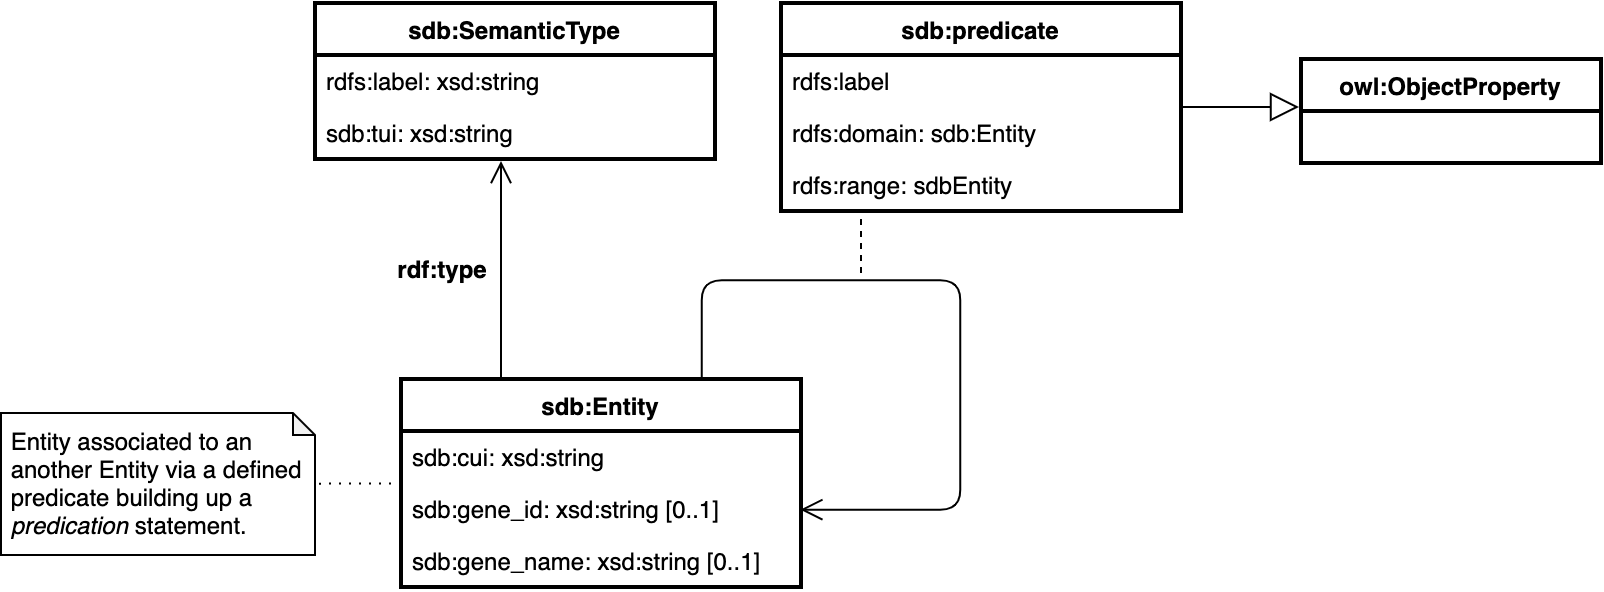
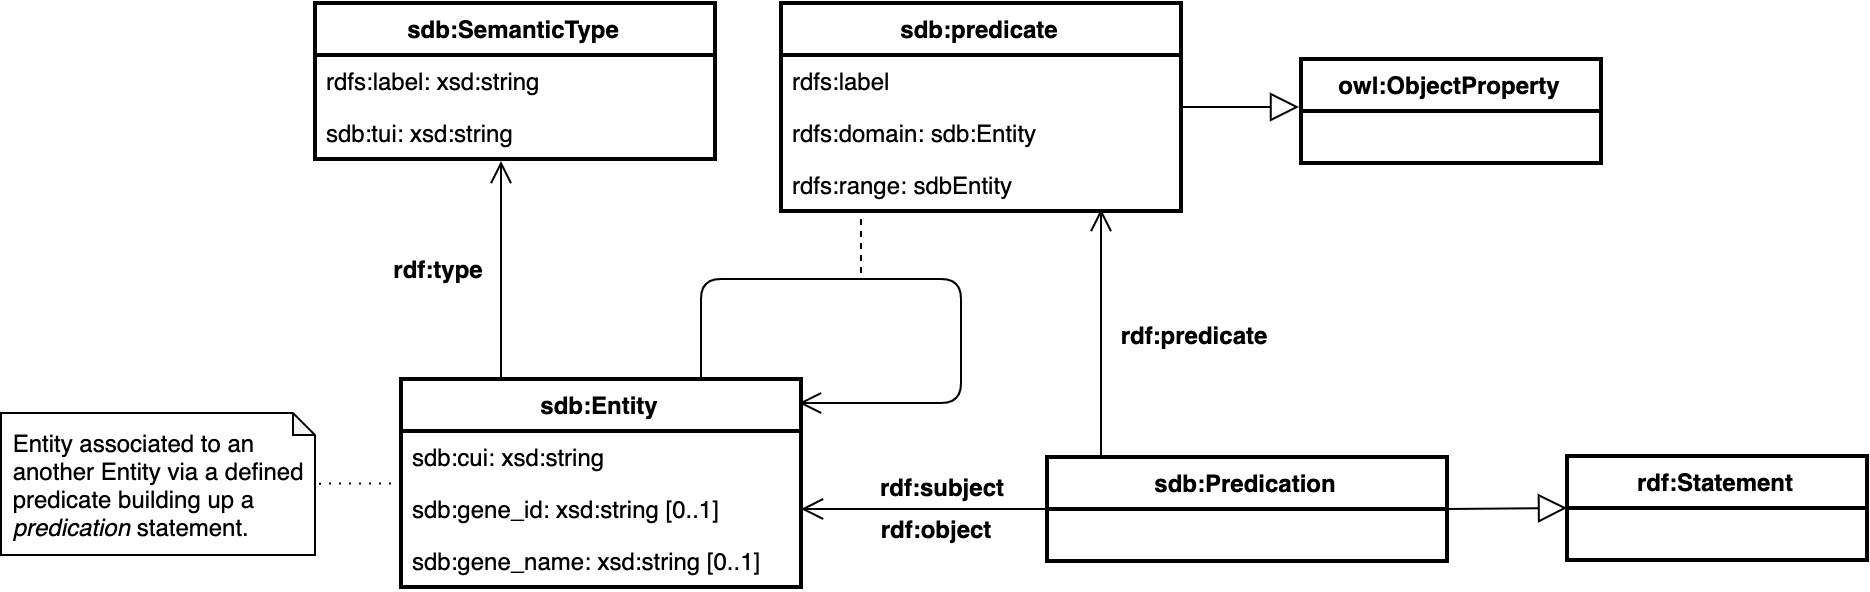
Constraints added

diff --git a/README.md b/README.md
@@ -17,7 +17,7 @@ Table | File size | Rows
 PREDICATION | 13Gb | 97.972.561
 ENTITY | 123Gb | 1.369.837.426
 
-The target graph model [semmeddb.ttl](model/semmeddb.ttl) trivially lifts the SemMedDB predications to RDF. Instances of the `sdb:Entity` class are related by the `sdb:predicate` relationship (derived from `owl:ObjectProperty`). The `sdb:SemanticType` class represents the concept behind an entity:
+The target graph model [semmeddb.ttl](model/semmeddb.ttl) trivially lifts the SemMedDB predications to RDF. Instances of the `sdb:Entity` class are related by the `sdb:predicate` relationship (derived from `owl:ObjectProperty`). The `sdb:SemanticType` class represents the concept behind an entity. The `sdb:Predication` class maintains references to elements of an individual predication, e.g. in order to evaluate and trace its validity. 
 
 ![SemMedDB Graph Model](figures/SemMedDB.png "SemMedDB POC Graph Model")
 
@@ -113,14 +113,15 @@ mysql>
 
 ```console
 bash>
- 	nohup mysql -u tester --password=stardog semmeddb < semmedVER40_R_PREDICATION.sql &
+ 	nohup mysql -u tester --password=stardog semmeddb4 < semmedVER40_R_PREDICATION.sql &
 	# Applies only when ENTITY table is used:
-	nohup mysql -u tester --password=stardog semmeddb < semmedVER40_R_ENTITY.sql &
+	nohup mysql -u tester --password=stardog semmeddb4 < semmedVER40_R_ENTITY.sql &
 ```
  or (b) via the mysql console: 
  
 ```sql	
 mysql>
+	USE semmeddb4 ;
 	SOURCE semmedVER40_R_PREDICATION.sql;
 	# Applies only when ENTITY table is used:
 	SOURCE semmedVER40_R_ENTITY.sql;
@@ -130,6 +131,7 @@ Clean up an obviuos error, numeric predicates are invalid (3 rows affected):
 
 ```sql
 mysql> 
+	USE semmeddb4 ;
 	DELETE FROM predication WHERE predicate IN ("127", "1532", "241") ;
 ```
  
@@ -176,18 +178,38 @@ Stardog supports either a deferred (virtual) or an eager (materialized) integrat
 ```console
 stardog-admin virtual add --database semmeddb --format SMS2 --overwrite mappings/semmeddb.properties mappings/semmeddb_gene_asthma_copd.sms
 ```
-The virtualized `PREDICATION` data set is exposed via the VG `<virtual://semmeddb>` for queries such as "which genes are associated with Asthma *or* COPD?" ([`genes_asthma_or_copd_virtual.rq`](queries/genes_asthma_or_copd_virtual.rq)). 
+The virtualized `PREDICATION` data set is exposed for querying via the VG `<virtual://semmeddb>` (not used in this demo). 
 
 The `stardog-admin virtual import` command is preferred to load mostly static, extensive data sources according to provided mapping: 
 
 ```console
 stardog-admin virtual import semmeddb --format SMS2  mappings/semmeddb.properties mappings/semmeddb_gene_asthma_copd.sms
 ```
-Sample queries show selecting genes that:
+
+## Queries
+
+Sample queries selecting genes that:
 
 - are associated with Asthma *or* COPD: ([`genes_asthma_or_copd_materialized.rq`](queries/genes_asthma_or_copd_materialized.rq))
-- are associated with Asthma, *not* COPD: ([`genes_asthma_not_copd_materialized.rq`](queries/genes_asthma_not_copd_materialized.rq))
+- are associated with Asthma but *not* COPD: ([`genes_asthma_not_copd_materialized.rq`](queries/genes_asthma_not_copd_materialized.rq))
 - are associated with Asthma *and* COPD: ([`genes_asthma_and_copd_materialized.rq`](queries/genes_asthma_and_copd_materialized.rq))
+
+## Constraints 
+
+The Integrity Constraint Validation (ICV) subsystem allows to validate graph data entering and being stored in a Stardog database according to user defined rules expressed in a variety of formats (e.g. SHACL, OWL, SPARQL). The queries above intentionally rely on the "positive" version of SemMedDb predicates (`associated_with`) because a number of predications was found to contradict by using the negated version of same predicates (`neg_associated_with`). The ICV 
+rule [`contradicting_predications_count.ttl`](rules/contradicting_predications_count.ttl) applied to the `semmeddb`database revealed 112 negating predications to conflict:
+
+```console
+bash>
+	stardog icv explain semmeddb constraints/contradicting_predications.ttl
+	+-----------+
+	| neg_count |
+	+-----------+
+	| 112       |
+	+-----------+
+```
+
+The rule [`contradicting_predications.ttl`](rules/contradicting_predications.ttl) provides a listing of the conflicting predication pairs. 
 
 
 ## Summary of data issues
